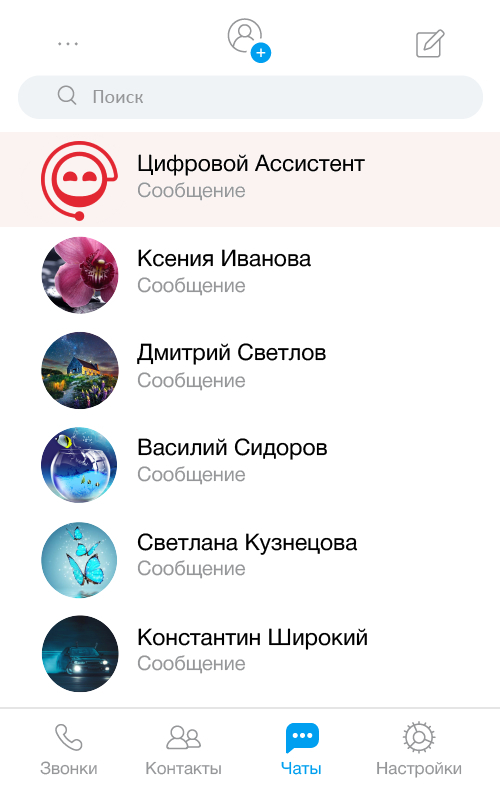
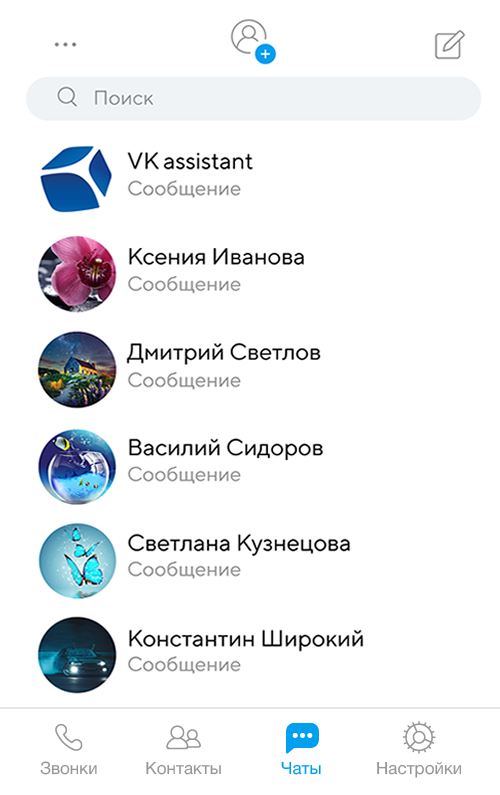
vk animation (also need to make bigger for extra large screens)

diff --git a/srcRedPhone/app/Chating.js b/srcRedPhone/app/Chating.js
@@ -52,7 +52,7 @@ export class Chating {
     messageContent.style.lineHeight = 
       Math.round(new ComputedProperties().displayElements().chatMessageLineHeight) + 'px'
 
-    console.log('createMessageHtmlItem typeSet', typeSet)
+    // console.log('createMessageHtmlItem typeSet', typeSet)
     if (typeSet === 'customer') {
       const appMsgBorderRadiusFirst = Math.round(new ComputedProperties().displayElements().messageBorderRadius.first)
       const appMsgBorderRadiusRest = Math.round(new ComputedProperties().displayElements().messageBorderRadius.rest)
@@ -76,8 +76,8 @@ export class Chating {
     messageWrap.appendChild(messageDate)
     messageWrap.appendChild(messageContent)
 
-    console.log('appIcon', appIcon)
-    console.log('appIcon type', typeof appIcon)
+    // console.log('appIcon', appIcon)
+    // console.log('appIcon type', typeof appIcon)
     frag.appendChild(appIcon)
     frag.appendChild(messageWrap)
 
@@ -122,7 +122,7 @@ export class Chating {
 
       const avatarIcon = document.createElement('img')
       avatarIcon.style.width = Math.round(new ComputedProperties().displayElements().chatIconImgWidth) + 'px'
-      avatarIcon.setAttribute('src', 'chats/assets/img/icons_red_phone_transformer_chat_list/avatarLogo@3x.png')
+      avatarIcon.setAttribute('src', 'chats/assets/img/LogoKubSvg28x28.svg')
       avatarIcon.setAttribute('width', '30')
 
       avatarIconWrap.appendChild(avatarIcon)
@@ -143,16 +143,16 @@ export class Chating {
       const avatarIconPicture = document.createElement('picture')
       
       const avatarIconSourceWebp = document.createElement('source')
-      avatarIconSourceWebp.setAttribute('srcset', 'chats/assets/img/userAvatar2_red.webp')
+      avatarIconSourceWebp.setAttribute('srcset', 'chats/assets/img/userAvatar2_blue.webp')
       avatarIconSourceWebp.setAttribute('type', 'image/webp')
 
       const avatarIconSourcePng = document.createElement('source')
-      avatarIconSourcePng.setAttribute('srcset', 'chats/assets/img/userAvatar2_red.png')
+      avatarIconSourcePng.setAttribute('srcset', 'chats/assets/img/userAvatar2_blue.png')
       avatarIconSourcePng.setAttribute('type', 'image/png')
 
       const avatarIconImg = document.createElement('img')
       avatarIconImg.style.width = Math.round(new ComputedProperties().displayElements().chatIconImgWidth) + 'px'
-      avatarIconImg.setAttribute('src', 'chats/assets/img/userAvatar2_red.png')
+      avatarIconImg.setAttribute('src', 'chats/assets/img/userAvatar2_blue.png')
       avatarIconImg.setAttribute('width', '25px')
 
       avatarIconPicture.appendChild(avatarIconSourceWebp)
@@ -394,7 +394,7 @@ export class Chating {
 
     let fadeInDuration = 1000
 
-    console.log('buildMessage - delay', delay)
+    // console.log('buildMessage - delay', delay)
     if (delay === 0) {
       fadeInDuration = 0
     }
@@ -429,7 +429,7 @@ export class Chating {
           window.timerHub.setTimeout('preBuildMessageApp', resolve, ms)
         )
 
-      console.log('AnimationScrollInRecursion - delayScroll', delayScroll)
+      // console.log('AnimationScrollInRecursion - delayScroll', delayScroll)
 
       let pxToScrollTop = 5
       if (delayScroll !== 0) {
@@ -455,16 +455,16 @@ export class Chating {
         isShowScroll =
           scrollElList[1].style.visibility == 'visible' ? true : false
       }
-      console.log(isShowScroll)
+      // console.log(isShowScroll)
       if (getCurrentScrollTop == scrollTopOld && isShowScroll) {
         // true - значит при нашем движении курсор уперся, значит это конечная точка
         // значит пока его переть дальше
         // clearTimeout(id);
-        console.log('first')
+        // console.log('first')
         return
       } else if (i > 50 && isShowScroll === false) {
         // завершаем если скролла еще нет, чтобы он не разгонялся на ровном месте
-        console.log('reset')
+        // console.log('reset')
         return
       } else {
         // продолжаем переть скролл
@@ -479,7 +479,7 @@ export class Chating {
       if (checkCurrentMessageAsUsed(dialogs, i_forTimer) ) {
         delayScroll = 0
       }
-      console.log('delayScroll', delayScroll)
+      // console.log('delayScroll', delayScroll)
 
       AnimationScrollInRecursion(0, delayScroll)
     }
@@ -799,7 +799,7 @@ export class Chating {
         // ЗАПОЛНИЛИ ЛИ МЫ ПОЛЕ - НЕТ
 
         await vm.chatinUserAnimation(a, text, timeTimeout, delay, dialogs, i_forTimer)
-        console.log('mobile - preBuildMessageUser - before preBuildMessageUser')
+        // console.log('mobile - preBuildMessageUser - before preBuildMessageUser')
         await vm.preBuildMessageUser(
             (a = text.length),
             text,
@@ -902,7 +902,7 @@ export class Chating {
         }
 
         // ТЕЛО
-        console.log('turn no. ' + i_forTimer)
+        // console.log('turn no. ' + i_forTimer)
         var text = null
 
         text = dialogs[i_forTimer].text
@@ -919,7 +919,7 @@ export class Chating {
 
         let who = dialogs[i_forTimer].from
         if (who === 'user') {
-          console.log('mobile - CreateAnimationChating - before preBuildMessageUser')
+          // console.log('mobile - CreateAnimationChating - before preBuildMessageUser')
           await vm.preBuildMessageUser(
               a,
               text,

diff --git a/src/chats/assets/html/redPhone.html b/src/chats/assets/html/redPhone.html
@@ -21,9 +21,9 @@
                 <div class="chatHeader__main">
                   <div class="headAndDate">
                     <img class="chatHeader__back_btn" width="10" src="chats/assets/img/icons_red_phone_transformer/back@2x.png">
-                    <img class="chatHeader__logo" width="30" src="chats/assets/img/icons_red_phone_transformer_chat_list/avatarLogo@3x.png">
+                    <img class="chatHeader__logo" width="30" src="chats/assets/img/LogoKubSvg28x28.svg">
                     <div class="headAndDate__title_wrap">
-                      <span class="headAndDate__head">Цифровой Ассистент</span>
+                      <span class="headAndDate__head">VK assistant</span>
                       <img src="chats/assets/img/icons_red_phone_transformer/to_bottom@2x.png" alt="" class="headAndDate__arrow">
                       <br>
                       <p class="headAndDate__sub_title">bot</p>
@@ -63,9 +63,9 @@
               <div class="chats-list">
                 <div class="chat-item need-item">
                   <div class="chat__logo-and-heading">
-                    <img width="60" src="chats/assets/img/icons_red_phone_transformer_chat_list/avatarLogo@3x.png" alt="" class="chat__avatar">
+                    <img width="60" src="chats/assets/img/LogoKubSvg28x28.svg" alt="" class="chat__avatar">
                     <div class="chat__heading">
-                      <p class="chat__title">цифровой ассистент</p>
+                      <p class="chat__title">VK assistant</p>
                       <p class="chat__sub_title">сообщение</p>
                     </div>
                   </div>

diff --git a/srcRedPhone/chats/assets/html/redPhone.html b/srcRedPhone/chats/assets/html/redPhone.html
@@ -21,9 +21,9 @@
                 <div class="chatHeader__main">
                   <div class="headAndDate">
                     <img class="chatHeader__back_btn" width="10" src="chats/assets/img/icons_red_phone_transformer/back@2x.png">
-                    <img class="chatHeader__logo" width="30" src="chats/assets/img/icons_red_phone_transformer_chat_list/avatarLogo@3x.png">
+                    <img class="chatHeader__logo" width="30" src="chats/assets/img/LogoKubSvg28x28.svg">
                     <div class="headAndDate__title_wrap">
-                      <span class="headAndDate__head">Цифровой Ассистент</span>
+                      <span class="headAndDate__head">VK assistant</span>
                       <img src="chats/assets/img/icons_red_phone_transformer/to_bottom@2x.png" alt="" class="headAndDate__arrow">
                       <br>
                       <p class="headAndDate__sub_title">bot</p>
@@ -63,9 +63,9 @@
               <div class="chats-list">
                 <div class="chat-item need-item">
                   <div class="chat__logo-and-heading">
-                    <img width="60" src="chats/assets/img/icons_red_phone_transformer_chat_list/avatarLogo@3x.png" alt="" class="chat__avatar">
+                    <img width="60" src="chats/assets/img/LogoKubSvg28x28.svg" alt="" class="chat__avatar">
                     <div class="chat__heading">
-                      <p class="chat__title">цифровой ассистент</p>
+                      <p class="chat__title">VK assistant</p>
                       <p class="chat__sub_title">сообщение</p>
                     </div>
                   </div>

diff --git a/srcRedPhone/app/chatsList.js b/srcRedPhone/app/chatsList.js
@@ -25,7 +25,7 @@ export class ChatsList {
     // wait click event
     // const needChatItemId = '.need-item'
     document.querySelector(this.needChatItemId).addEventListener('click', (event) => {
-      console.log('click to need item')
+      // console.log('click to need item')
       document.querySelector(this.needChatItemId).classList.toggle('active')
 
       // rm chats list
@@ -36,7 +36,7 @@ export class ChatsList {
   }
 
   create() {
-    console.log('createChatsList')
+    // console.log('createChatsList')
     
     document.querySelector('.chatHeader').style.display = 'none'
     document.querySelector('.chatContentWrapper').style.display = 'none'
@@ -62,7 +62,7 @@ export class ChatsList {
   }
 
   runTransitionAnimation() {
-    console.log('runAnimation')
+    // console.log('runAnimation')
 
     let delayTransitionAnimationFromChatListToChat = 400
 
@@ -89,7 +89,7 @@ export class ChatsList {
   }
 
   destroy() {
-    console.log('destroyChatsList')
+    // console.log('destroyChatsList')
     document.querySelector('.chat-list-version').classList.toggle('chat-list-version')
     document.querySelector('.chatContent').classList.toggle('whiteBg')
     document.querySelector('.chatContent').classList.toggle('grayBg')

diff --git a/srcRedWeb/app/Chating.js b/srcRedWeb/app/Chating.js
@@ -55,7 +55,7 @@ export class Chating {
       // is app
       AppIcon =
         '<div class="item">\n' +
-        '<div class="chat-icon"><img width="30" src="chats/assets/img/logo.png"></div>\n' +
+        '<div class="chat-icon"><img width="30" src="chats/assets/img/LogoKubSvg28x28.svg"></div>\n' +
         '</div>'
     } else if (typeSet == 'company') {
       // is user
@@ -63,9 +63,9 @@ export class Chating {
         '<div class="item">\n' +
         '<div class="chat-icon">\n' +
           '<picture>\n' +
-          '<source srcset="chats/assets/img/userAvatar2_red.webp" type="image/webp">\n' +
-          '<source srcset="chats/assets/img/userAvatar2_red.png" type="image/png"> \n' +
-          '<img src="chats/assets/img/userAvatar2_red.png" width="25px">\n' +
+          '<source srcset="chats/assets/img/userAvatar2_blue.webp" type="image/webp">\n' +
+          '<source srcset="chats/assets/img/userAvatar2_blue.png" type="image/png"> \n' +
+          '<img src="chats/assets/img/userAvatar2_blue.png" width="25px">\n' +
         '</picture>\n' +
         '</div>\n' +
         '</div>'

diff --git a/src/chats/assets/html/redWeb.html b/src/chats/assets/html/redWeb.html
@@ -1,4 +1,4 @@
-<div id="master-container" class="noscroll">
+<div id="master-container" class="red-web-wrapper noscroll">
   <div class="bg-shape"></div>
   <div class="bg-shape"></div>
   <div id="chat-box" style="display: none">
@@ -14,12 +14,12 @@
                 <div id="chat-ui-header-logo-and-text">
                   <div id="chat-ui-header-logo">
                     <div id="chat-ui-header-logo__item">
-                      <img width="30" src="chats/assets/img/logo.png">
+                      <img width="30" src="chats/assets/img/LogoKubSvg28x28.svg">
                     </div>
                   </div>
                   <div id="chat-ui-header-text">
                     <div id="chat-ui-header-name-contact">
-                      Цифровой Ассистент
+                      VK assistant
                     </div>
                     <div id="chat-ui-header-theme">Тема сессии</div>
                   </div>

diff --git a/srcRedWeb/chats/assets/html/redWeb.html b/srcRedWeb/chats/assets/html/redWeb.html
@@ -14,12 +14,12 @@
                 <div id="chat-ui-header-logo-and-text">
                   <div id="chat-ui-header-logo">
                     <div id="chat-ui-header-logo__item">
-                      <img width="30" src="chats/assets/img/logo.png">
+                      <img width="30" src="chats/assets/img/LogoKubSvg28x28.svg">
                     </div>
                   </div>
                   <div id="chat-ui-header-text">
                     <div id="chat-ui-header-name-contact">
-                      Цифровой Ассистент
+                      VK assistant
                     </div>
                     <div id="chat-ui-header-theme">Тема сессии</div>
                   </div>

diff --git a/srcRedWeb/lib/classControl.js b/srcRedWeb/lib/classControl.js
@@ -15,7 +15,7 @@ export function HasClass(el, className) {
  * @param {*} className 
  */
 export function AddClass(el, className) {
-  console.log('add class', {el: el, className: className})
+  // console.log('add class', {el: el, className: className})
   if (el.classList) el.classList.add(className)
   else if (!HasClass(el, className)) el.className += ' ' + className
 }

diff --git a/README.md b/README.md
@@ -1,1 +1,3 @@
 # web_pages_for_transformer
+nvm use 14.15.0
+yarn build
